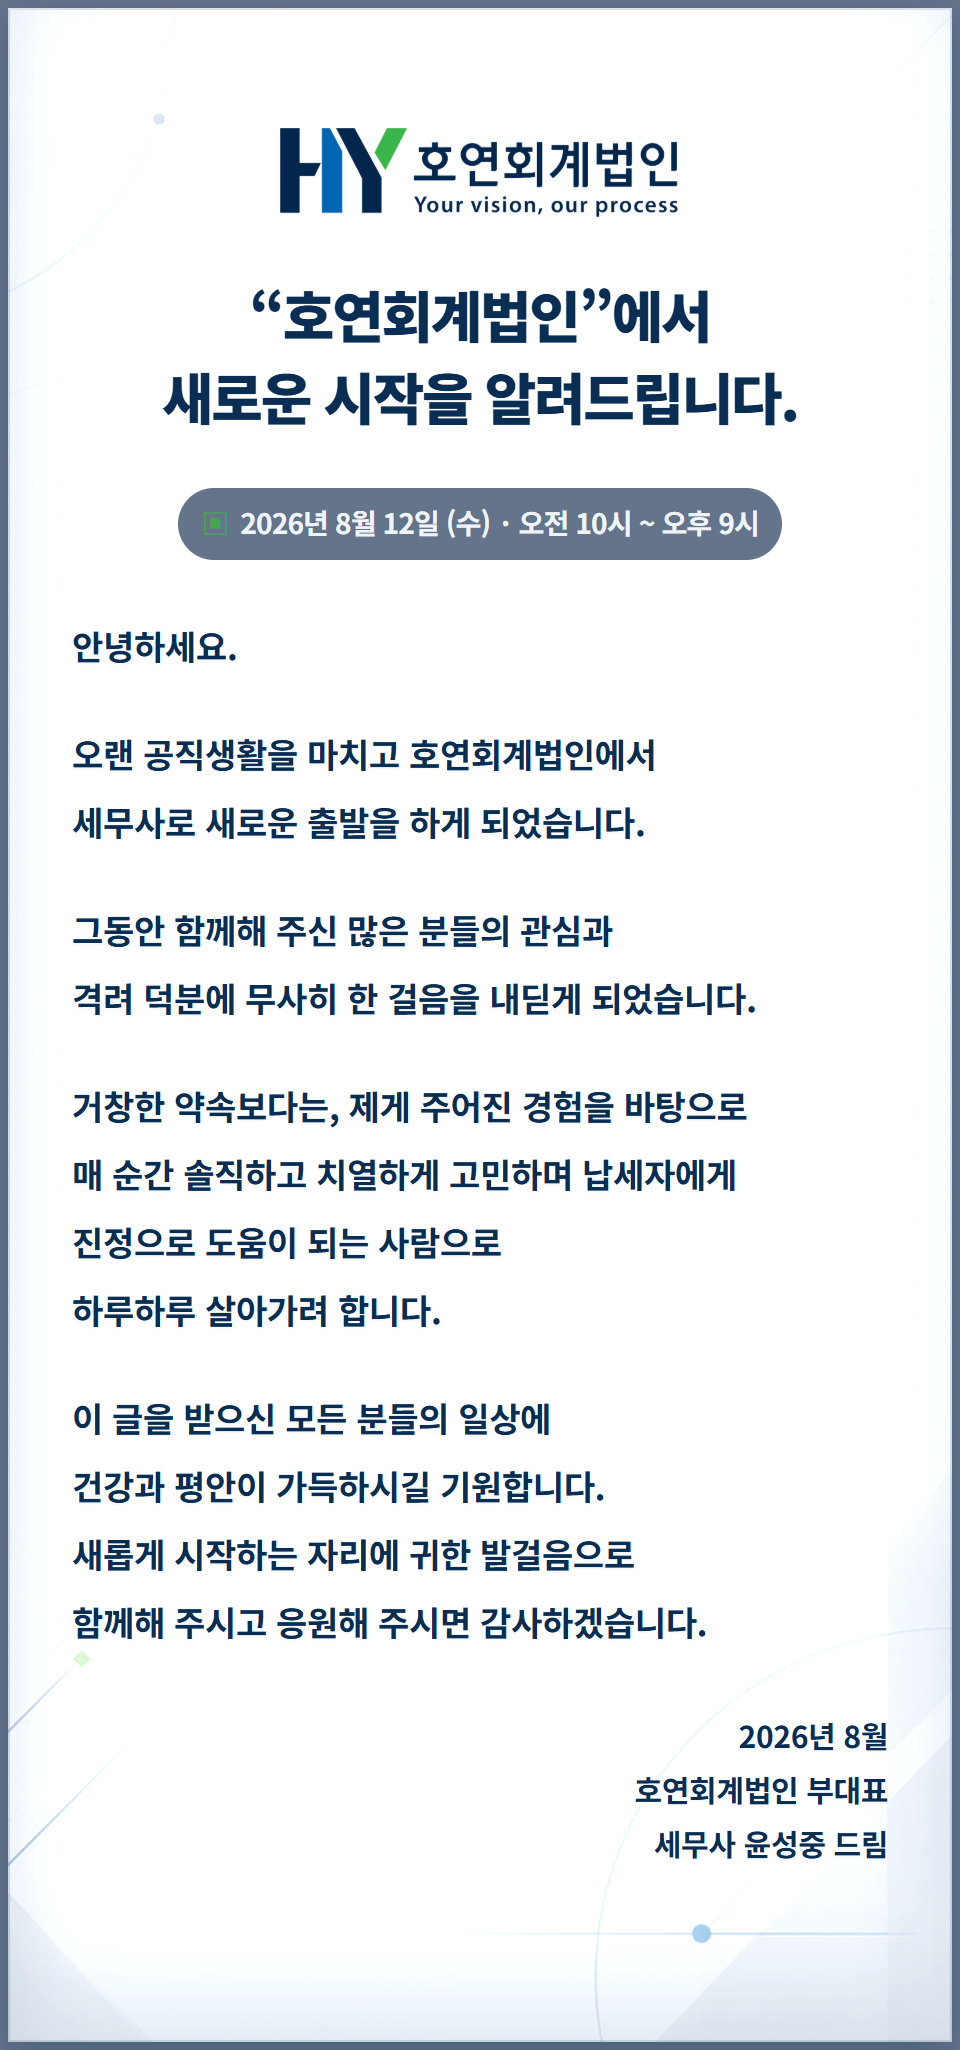
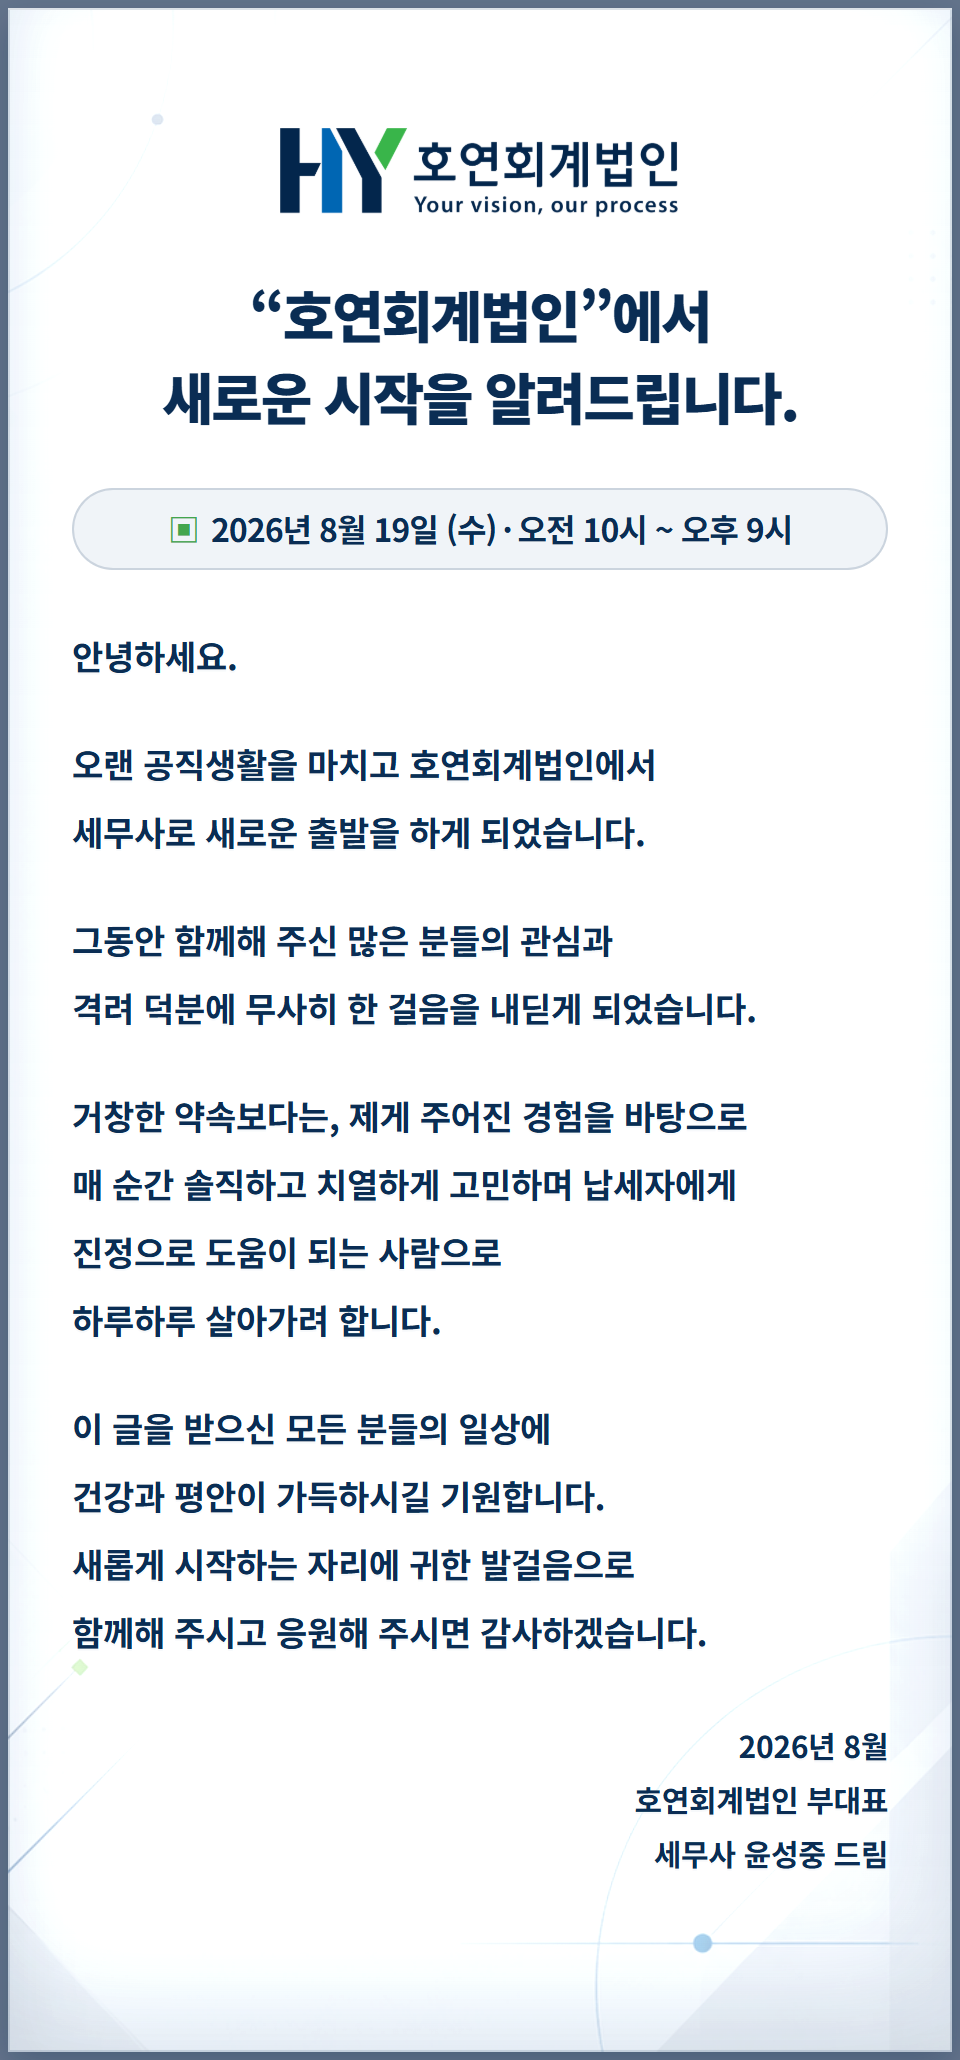
feat: render readable August 19 event notice

diff --git a/index.html b/index.html
@@ -11,9 +11,9 @@
   <main class="invitation-shell">
     <section id="intro-section" aria-label="호연회계법인 윤성중 부대표 개업 초대 인사말">
       <picture>
-        <source media="(max-width: 419px)" srcset="img/intro-section-360.png" width="720" height="2200">
-        <source media="(max-width: 559px)" srcset="img/intro-section-480.png" width="960" height="2050">
-        <img class="intro-section-image" src="img/intro-section-640.png" width="1280" height="2154" alt="호연회계법인 윤성중 부대표의 2026년 8월 12일 개업 초대 인사말" fetchpriority="high" decoding="async">
+        <source media="(max-width: 419px)" srcset="img/intro-section-360.png" width="720" height="2252">
+        <source media="(max-width: 559px)" srcset="img/intro-section-480.png" width="960" height="2060">
+        <img class="intro-section-image" src="img/intro-section-640.png" width="1280" height="2164" alt="호연회계법인 윤성중 부대표의 2026년 8월 19일 개업 초대 인사말" fetchpriority="high" decoding="async">
       </picture>
     </section>
 
